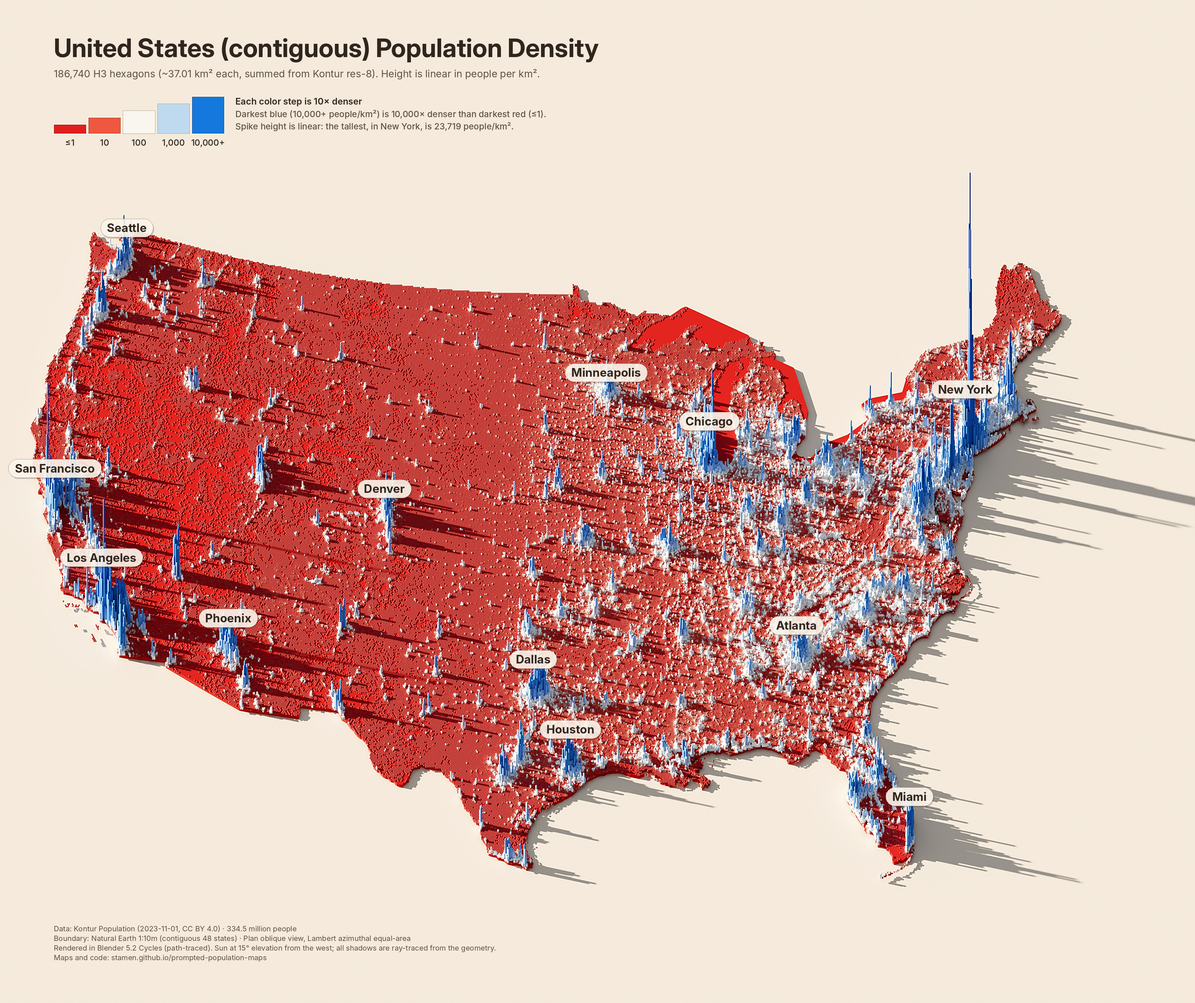
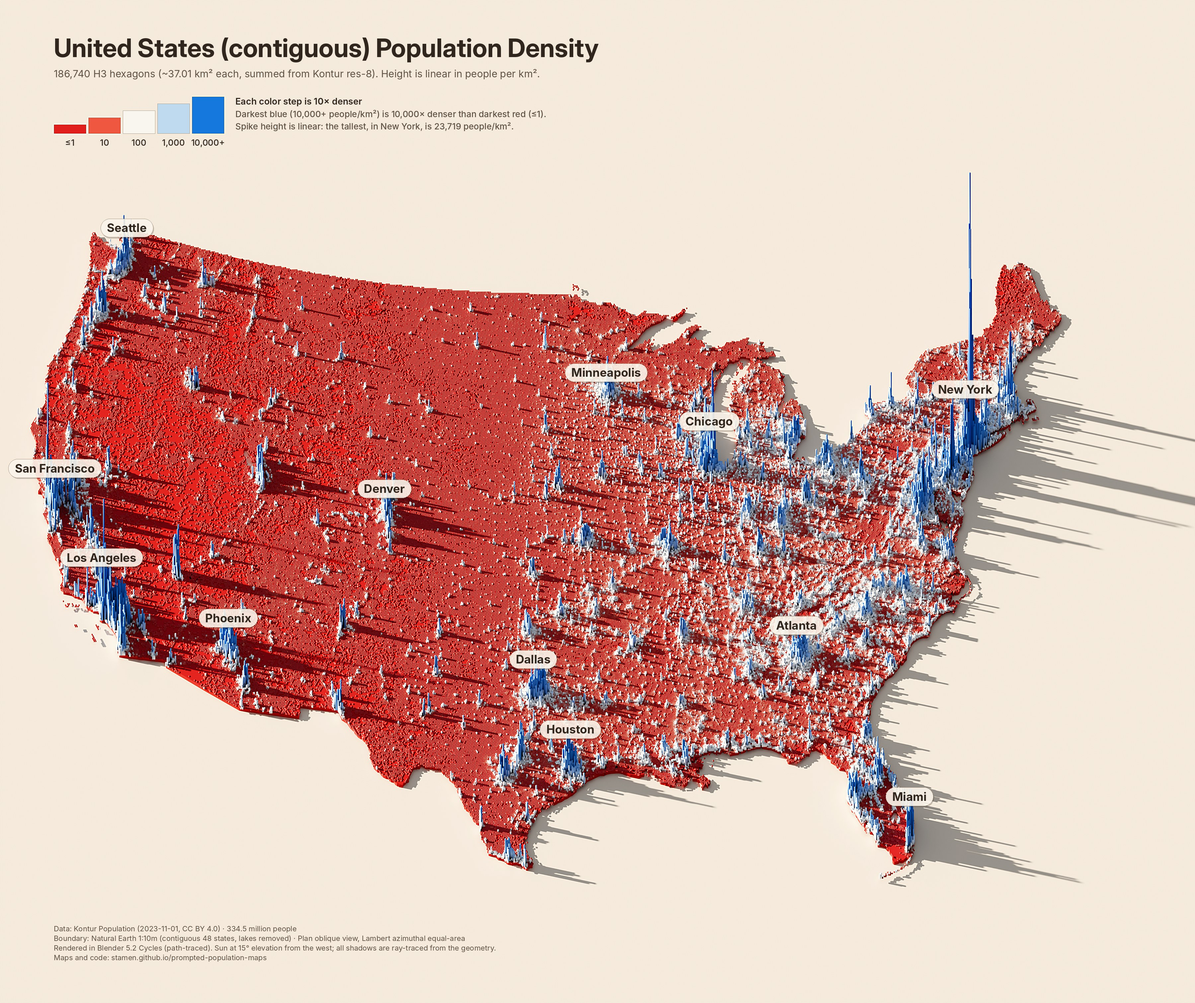
Cut the Great Lakes out of the US map
The contiguous US region now uses lakes=True, like Ontario: population is
still clipped with the full boundary (334.5M unchanged); only the land
slab follows the lake shorelines.

Claude-Session: https://claude.ai/code/session_01JpWq1huicL6a9CABHsnDbq

diff --git a/docs/index.html b/docs/index.html
@@ -474,7 +474,7 @@ R={
  &#x27;germany&#x27;:dict(title=&#x27;Germany&#x27;,kontur=[&#x27;DE&#x27;],bnd=(&#x27;ne0&#x27;,[&#x27;Germany&#x27;]),national=True,credit=&#x27;Natural Earth 1:10m&#x27;,
    cities=[(&#x27;Berlin&#x27;,13.40,52.52),(&#x27;Hamburg&#x27;,9.99,53.55),(&#x27;Munich&#x27;,11.58,48.14),(&#x27;Cologne&#x27;,6.96,50.94),(&#x27;Frankfurt&#x27;,8.68,50.11),(&#x27;Stuttgart&#x27;,9.18,48.78),(&#x27;Düsseldorf&#x27;,6.77,51.23),(&#x27;Leipzig&#x27;,12.37,51.34),(&#x27;Dresden&#x27;,13.74,51.05),(&#x27;Hanover&#x27;,9.73,52.37),(&#x27;Nuremberg&#x27;,11.08,49.45),(&#x27;Bremen&#x27;,8.80,53.08),(&#x27;Dortmund&#x27;,7.47,51.51)]),
  # ---- the seven countries first made &quot;with vibes&quot; (see the site), now from real data
- &#x27;usa&#x27;:dict(title=&#x27;United States (contiguous)&#x27;,kontur=[&#x27;US&#x27;],bnd=(&#x27;ne0&#x27;,[&#x27;United States of America&#x27;]),national=True,res=6,bbox=(-125,24,-66.5,49.5),credit=&#x27;Natural Earth 1:10m (contiguous 48 states)&#x27;,
+ &#x27;usa&#x27;:dict(title=&#x27;United States (contiguous)&#x27;,kontur=[&#x27;US&#x27;],bnd=(&#x27;ne0&#x27;,[&#x27;United States of America&#x27;]),national=True,res=6,lakes=True,bbox=(-125,24,-66.5,49.5),credit=&#x27;Natural Earth 1:10m (contiguous 48 states, lakes removed)&#x27;,
    cities=[(&#x27;New York&#x27;,-74.0,40.7),(&#x27;Los Angeles&#x27;,-118.24,34.05),(&#x27;Chicago&#x27;,-87.63,41.88),(&#x27;Houston&#x27;,-95.37,29.76),(&#x27;Dallas&#x27;,-96.8,32.78),(&#x27;Miami&#x27;,-80.19,25.77),(&#x27;Atlanta&#x27;,-84.39,33.75),(&#x27;Seattle&#x27;,-122.33,47.61),(&#x27;Denver&#x27;,-104.99,39.74),(&#x27;Phoenix&#x27;,-112.07,33.45),(&#x27;San Francisco&#x27;,-122.42,37.77),(&#x27;Minneapolis&#x27;,-93.27,44.98)]),
  &#x27;russia&#x27;:dict(title=&#x27;Russia&#x27;,kontur=[&#x27;RU&#x27;],bnd=(&#x27;ne0&#x27;,[&#x27;Russia&#x27;]),national=True,bbox=(19,41,180,82),credit=&#x27;Natural Earth 1:10m (de facto boundaries; Chukotka east of 180° omitted)&#x27;,
    cities=[(&#x27;Moscow&#x27;,37.62,55.75),(&#x27;St Petersburg&#x27;,30.32,59.94),(&#x27;Novosibirsk&#x27;,82.92,55.03),(&#x27;Yekaterinburg&#x27;,60.6,56.84),(&#x27;Kazan&#x27;,49.11,55.79),(&#x27;Rostov-on-Don&#x27;,39.7,47.23),(&#x27;Krasnoyarsk&#x27;,92.87,56.01),(&#x27;Omsk&#x27;,73.37,54.99),(&#x27;Irkutsk&#x27;,104.3,52.29),(&#x27;Vladivostok&#x27;,131.89,43.12),(&#x27;Khabarovsk&#x27;,135.07,48.48),(&#x27;Yakutsk&#x27;,129.73,62.03)]),

diff --git a/pipeline/regions.py b/pipeline/regions.py
@@ -42,7 +42,7 @@ R={
  'germany':dict(title='Germany',kontur=['DE'],bnd=('ne0',['Germany']),national=True,credit='Natural Earth 1:10m',
    cities=[('Berlin',13.40,52.52),('Hamburg',9.99,53.55),('Munich',11.58,48.14),('Cologne',6.96,50.94),('Frankfurt',8.68,50.11),('Stuttgart',9.18,48.78),('Düsseldorf',6.77,51.23),('Leipzig',12.37,51.34),('Dresden',13.74,51.05),('Hanover',9.73,52.37),('Nuremberg',11.08,49.45),('Bremen',8.80,53.08),('Dortmund',7.47,51.51)]),
  # ---- the seven countries first made "with vibes" (see the site), now from real data
- 'usa':dict(title='United States (contiguous)',kontur=['US'],bnd=('ne0',['United States of America']),national=True,res=6,bbox=(-125,24,-66.5,49.5),credit='Natural Earth 1:10m (contiguous 48 states)',
+ 'usa':dict(title='United States (contiguous)',kontur=['US'],bnd=('ne0',['United States of America']),national=True,res=6,lakes=True,bbox=(-125,24,-66.5,49.5),credit='Natural Earth 1:10m (contiguous 48 states, lakes removed)',
    cities=[('New York',-74.0,40.7),('Los Angeles',-118.24,34.05),('Chicago',-87.63,41.88),('Houston',-95.37,29.76),('Dallas',-96.8,32.78),('Miami',-80.19,25.77),('Atlanta',-84.39,33.75),('Seattle',-122.33,47.61),('Denver',-104.99,39.74),('Phoenix',-112.07,33.45),('San Francisco',-122.42,37.77),('Minneapolis',-93.27,44.98)]),
  'russia':dict(title='Russia',kontur=['RU'],bnd=('ne0',['Russia']),national=True,bbox=(19,41,180,82),credit='Natural Earth 1:10m (de facto boundaries; Chukotka east of 180° omitted)',
    cities=[('Moscow',37.62,55.75),('St Petersburg',30.32,59.94),('Novosibirsk',82.92,55.03),('Yekaterinburg',60.6,56.84),('Kazan',49.11,55.79),('Rostov-on-Don',39.7,47.23),('Krasnoyarsk',92.87,56.01),('Omsk',73.37,54.99),('Irkutsk',104.3,52.29),('Vladivostok',131.89,43.12),('Khabarovsk',135.07,48.48),('Yakutsk',129.73,62.03)]),
